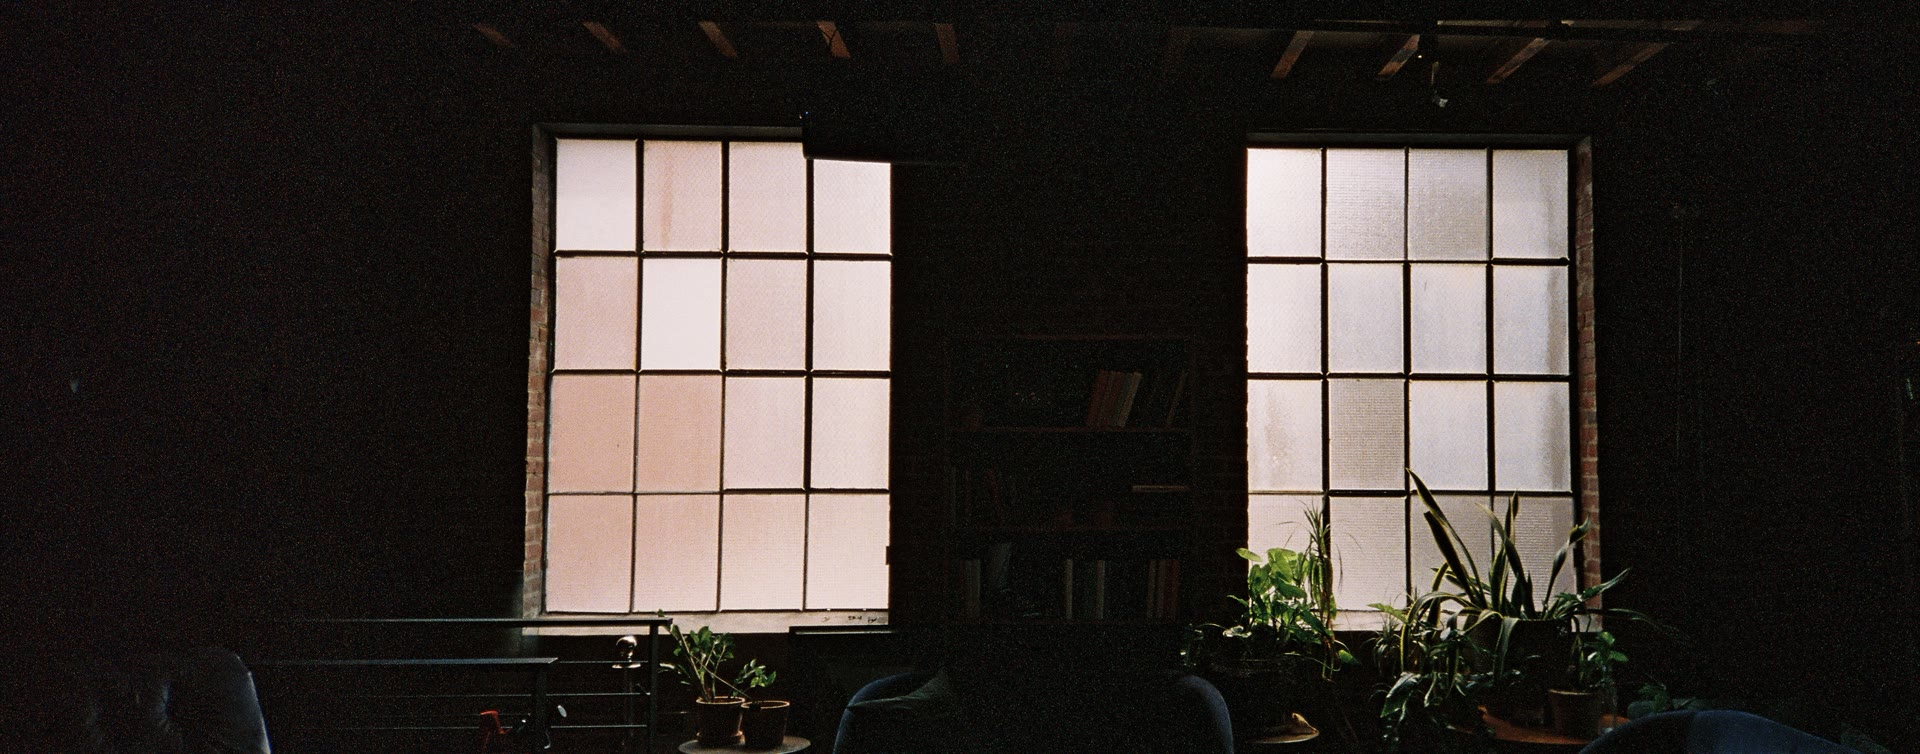
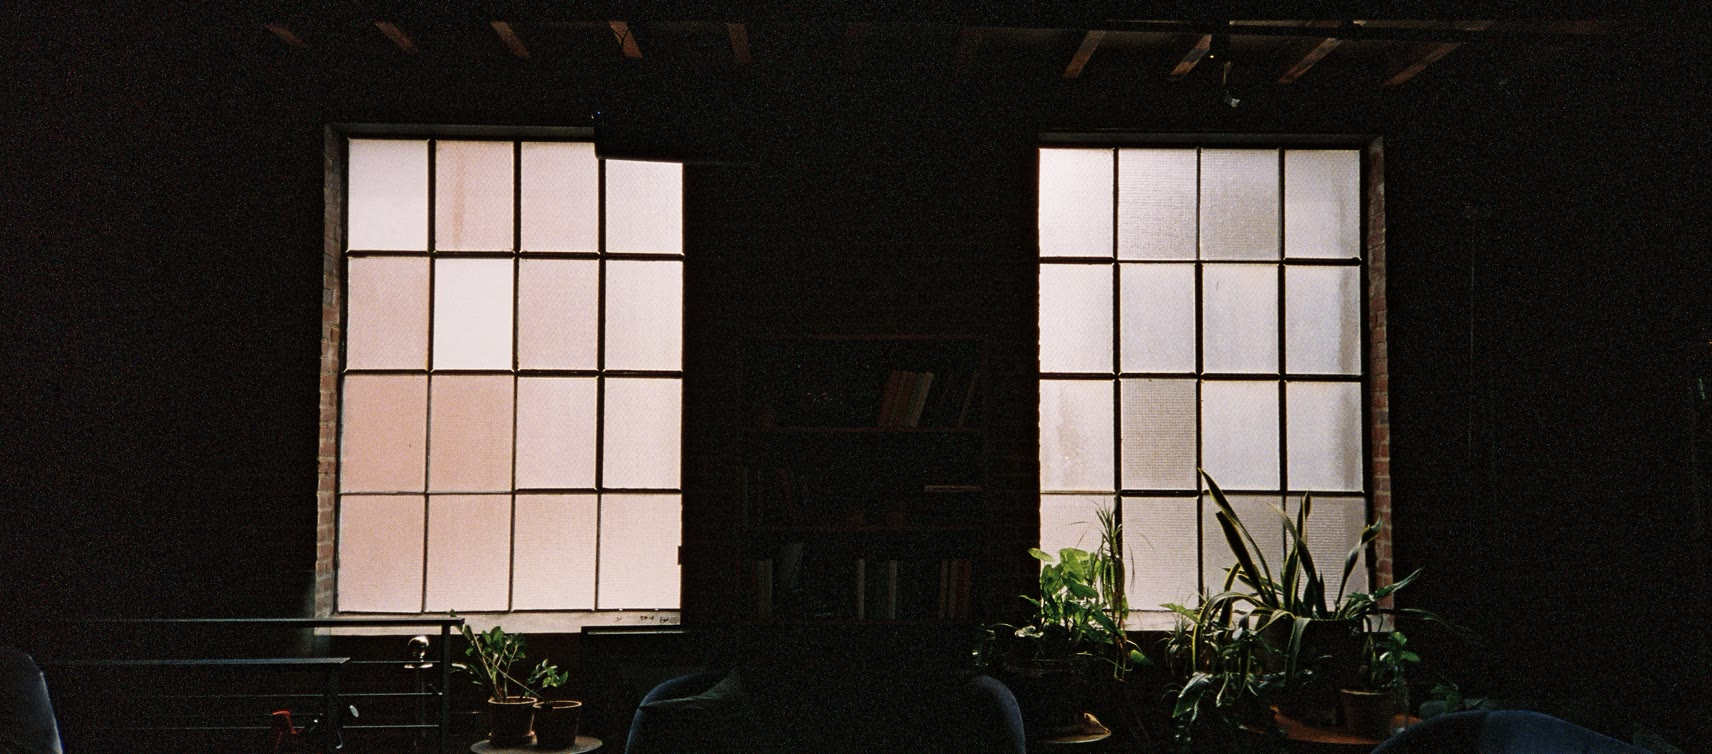
Center windows in approach header, remove clients section
- bg-windows-night.jpg re-cropped so the dark gap between the two
  windows sits at the exact horizontal center (1712x754 from x=208)
- 'In good company' clients/logos section removed from the one-pager
  along with its scroll-rail entry and the now-unused logo assets

diff --git a/index.html b/index.html
@@ -82,7 +82,7 @@
 
     <!-- approach -->
     <section class="box" id="approach">
-      <div class="sechead sechead--photo reveal" style="background-image: linear-gradient(rgba(12,12,12,0.45), rgba(12,12,12,0.6)), url('assets/bg-windows-night.jpg')">
+      <div class="sechead sechead--photo reveal" style="background-image: linear-gradient(rgba(12,12,12,0.45), rgba(12,12,12,0.6)), url('assets/bg-windows-night.jpg?v=2')">
         <span class="tag">Approach</span>
         <h2>People remember how a room made them feel. We design that.</h2>
       </div>
@@ -444,42 +444,6 @@
 
     <div class="gap"></div>
 
-    <!-- clients -->
-    <section class="box" id="clients">
-      <div class="sechead sechead--photo reveal" style="background-image: linear-gradient(rgba(12,12,12,0.45), rgba(12,12,12,0.6)), url('assets/bg-velvet.jpg')">
-        <span class="tag">Clients &amp; partners</span>
-        <h2>In good company.</h2>
-      </div>
-      <div class="logomarquee reveal" aria-label="Clients and partners">
-        <div class="logomarquee__track">
-          <div class="logomarquee__group">
-            <img src="assets/logos/logo-1.png" alt="Rémy Martin">
-            <img src="assets/logos/logo-6.png" alt="Margolis" class="lg-margolis">
-            <img src="assets/logos/logo-8.png" alt="Fabrika">
-            <img src="assets/logos/logo-2.png" alt="Crooked Tea">
-            <img src="assets/logos/logo-3.png" alt="Posh">
-            <img src="assets/logos/logo-4.png" alt="The Patio Fishtown">
-            <img src="assets/logos/logo-5.png" alt="SIMBy">
-            <img src="assets/logos/logo-9.png" alt="DJ DJ">
-            <img src="assets/logos/logo-10.png" alt="The Connect">
-          </div>
-          <div class="logomarquee__group" aria-hidden="true">
-            <img src="assets/logos/logo-1.png" alt="">
-            <img src="assets/logos/logo-6.png" alt="" class="lg-margolis">
-            <img src="assets/logos/logo-8.png" alt="">
-            <img src="assets/logos/logo-2.png" alt="">
-            <img src="assets/logos/logo-3.png" alt="">
-            <img src="assets/logos/logo-4.png" alt="">
-            <img src="assets/logos/logo-5.png" alt="">
-            <img src="assets/logos/logo-9.png" alt="">
-            <img src="assets/logos/logo-10.png" alt="">
-          </div>
-        </div>
-      </div>
-    </section>
-
-    <div class="gap"></div>
-
     <!-- reviews -->
     <section class="box" id="reviews">
       <div class="sechead sechead--photo reveal" style="background-image: linear-gradient(rgba(12,12,12,0.45), rgba(12,12,12,0.6)), url('assets/bg-windowsill.jpg')">
@@ -568,7 +532,6 @@
   <a href="#approach" data-spy="approach"><span class="scrollnav__dot" aria-hidden="true"></span><span class="scrollnav__label">Approach</span></a>
   <a href="#services" data-spy="services"><span class="scrollnav__dot" aria-hidden="true"></span><span class="scrollnav__label">Services</span></a>
   <a href="#portfolio" data-spy="portfolio"><span class="scrollnav__dot" aria-hidden="true"></span><span class="scrollnav__label">Portfolio</span></a>
-  <a href="#clients" data-spy="clients"><span class="scrollnav__dot" aria-hidden="true"></span><span class="scrollnav__label">Clients</span></a>
   <a href="#reviews" data-spy="reviews"><span class="scrollnav__dot" aria-hidden="true"></span><span class="scrollnav__label">Reviews</span></a>
   <a href="#contact" data-spy="contact"><span class="scrollnav__dot" aria-hidden="true"></span><span class="scrollnav__label">Contact</span></a>
 </nav>